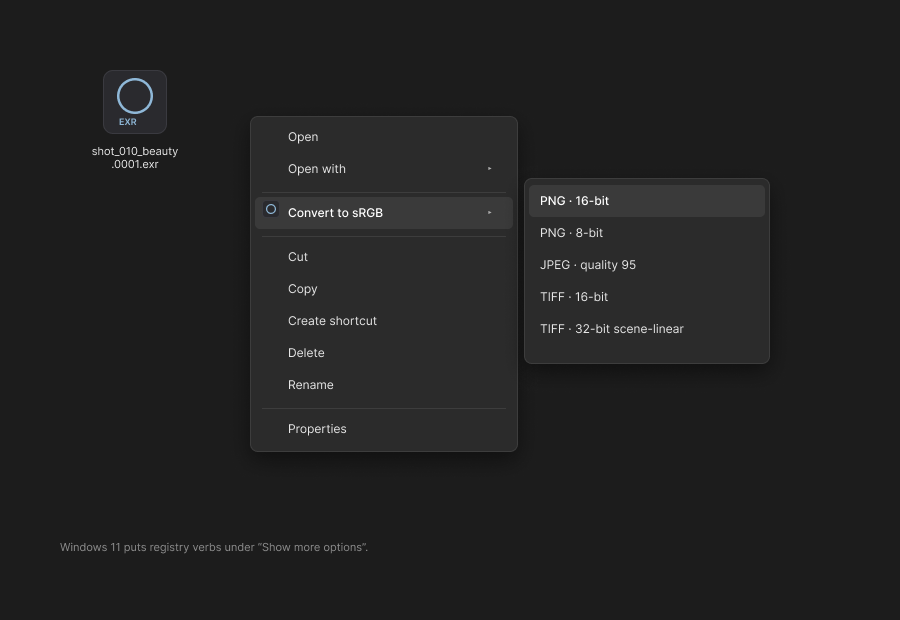
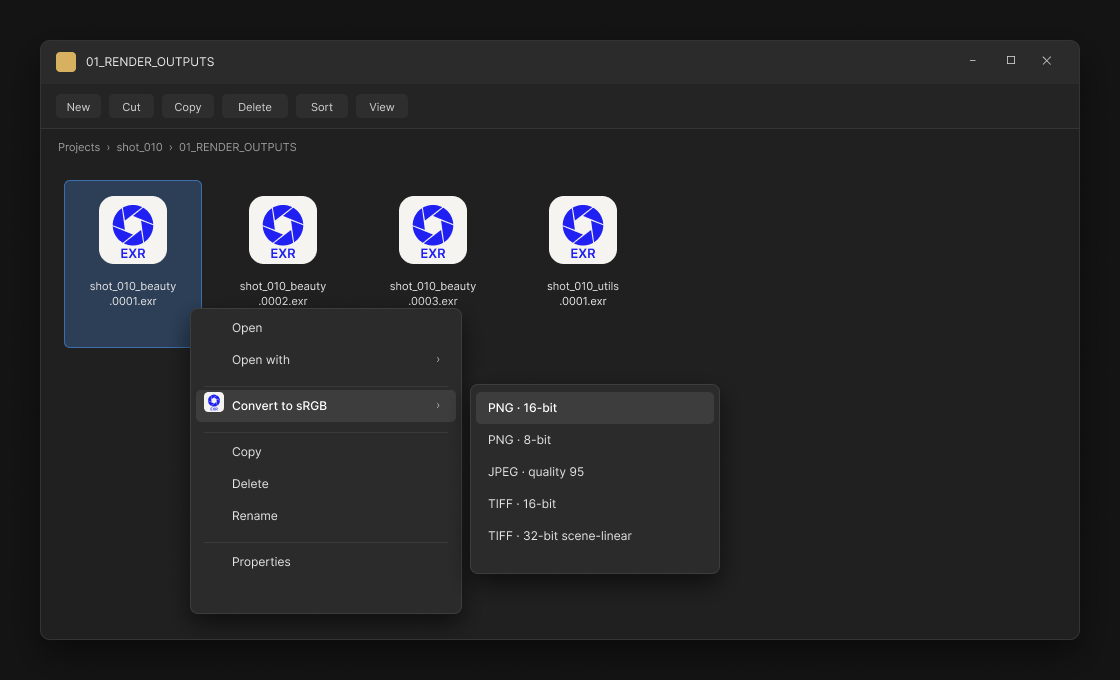
Rebuild the Explorer mockup around a real window, and hoist it above the fold
The first version was a menu floating on a flat background, which showed
the submenu but not where it comes from. It is now an Explorer window
with a toolbar, a breadcrumb and a grid of .exr files, with the menu
anchored to the one that is selected - so the picture explains the
gesture rather than just the result.

The file icons are the aperture from exr.ico rather than a placeholder
ring. It is rebuilt as vectors instead of pasting the .ico in: the blades
are generated so the sweep is even, it stays crisp at any size, and it
remains editable in a file whose whole purpose is being edited. First
attempt had the blades too thin and the gaps too wide, which read as a
star rather than an iris - widened to match the artwork.

Moved up beside the converter and viewer shots. Right-click convert is
the feature most likely to be missed entirely, since it is behind a
toggle and sits under "Show more options" on Windows 11, so it earns a
place in the first screen rather than a paragraph two thirds down.

diff --git a/README.md b/README.md
@@ -32,6 +32,12 @@ destination is a comp rather than a screen.
 <sub>Double-click any `.exr` to open it in the viewer. The probe reads the linear
 scene value and the display colour side by side.</sub>
 
+<br><br>
+
+<img src="docs/context_menu.png" alt="The Explorer right-click menu with a Convert to sRGB submenu listing the five presets" width="880">
+
+<sub>Or skip the app entirely — right-click any `.exr` and convert it in place.</sub>
+
 </div>
 
 ---
@@ -278,11 +284,7 @@ instead of being hunted through a list.
 
 Enable it under the **⚙** to add a convert submenu to `.exr` files in Explorer:
 PNG 8/16-bit, JPEG, TIFF 16-bit, and TIFF 32-bit scene-linear. Conversion runs
-headless — no window ever opens.
-
-<div align="center">
-  <img src="docs/context_menu.png" alt="The Explorer right-click menu with a Convert to sRGB submenu listing the five presets" width="720">
-</div>
+headless — no window ever opens. It's [pictured at the top](#exr--srgb).
 
 The verbs are registered under `SystemFileAssociations\.exr`, so they show up
 whatever application owns the file type, and `.exr` files get their own aperture
